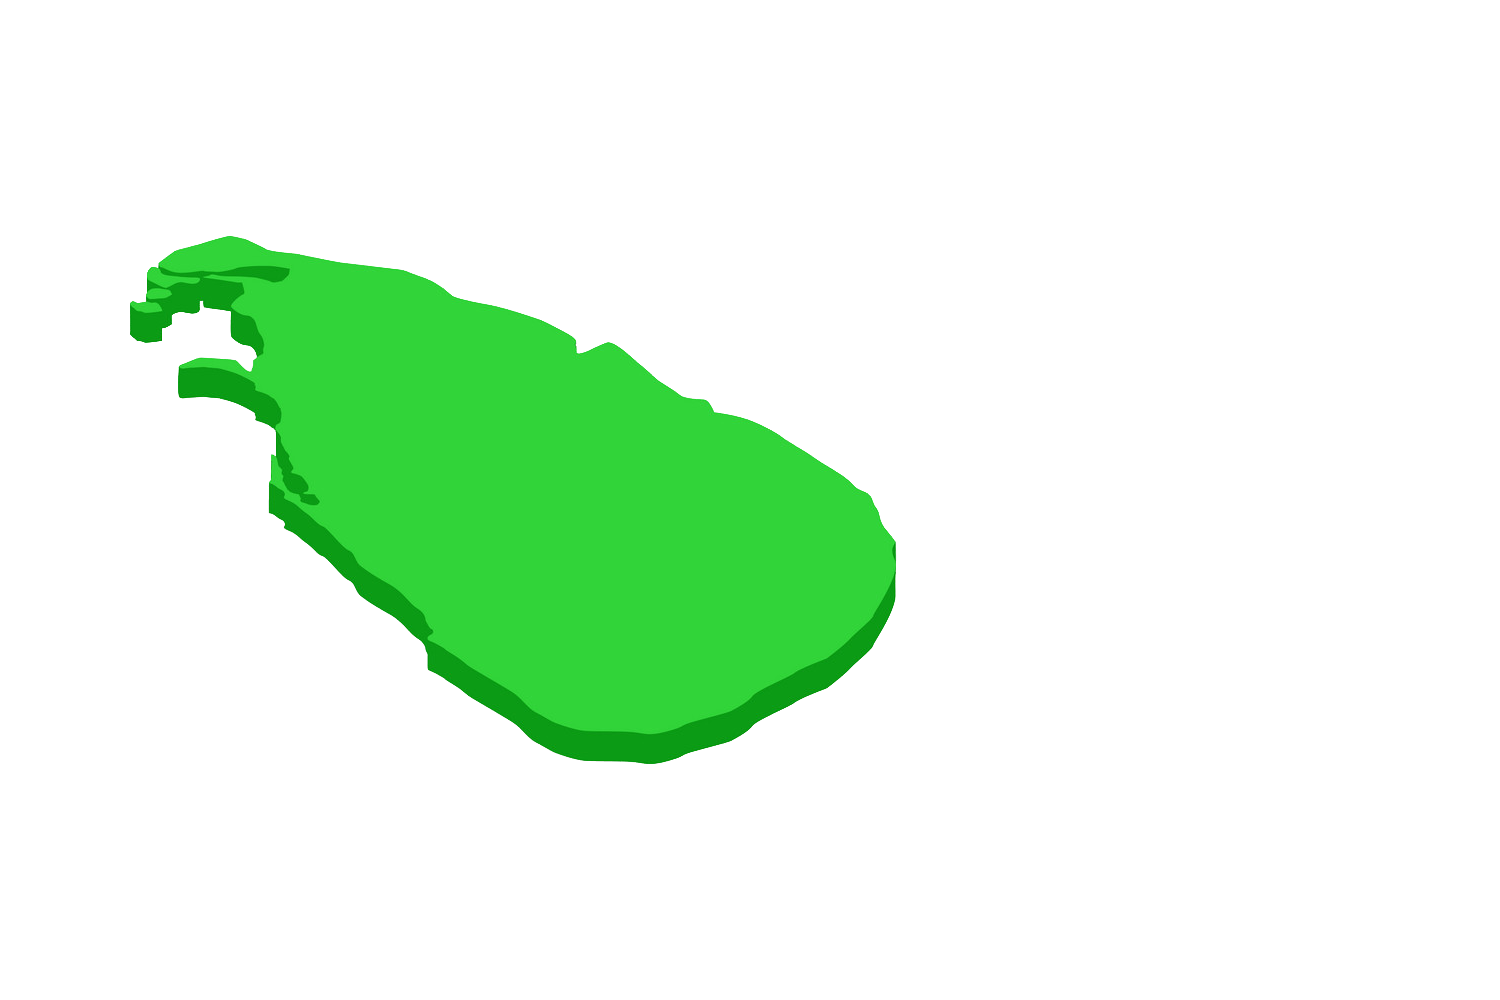
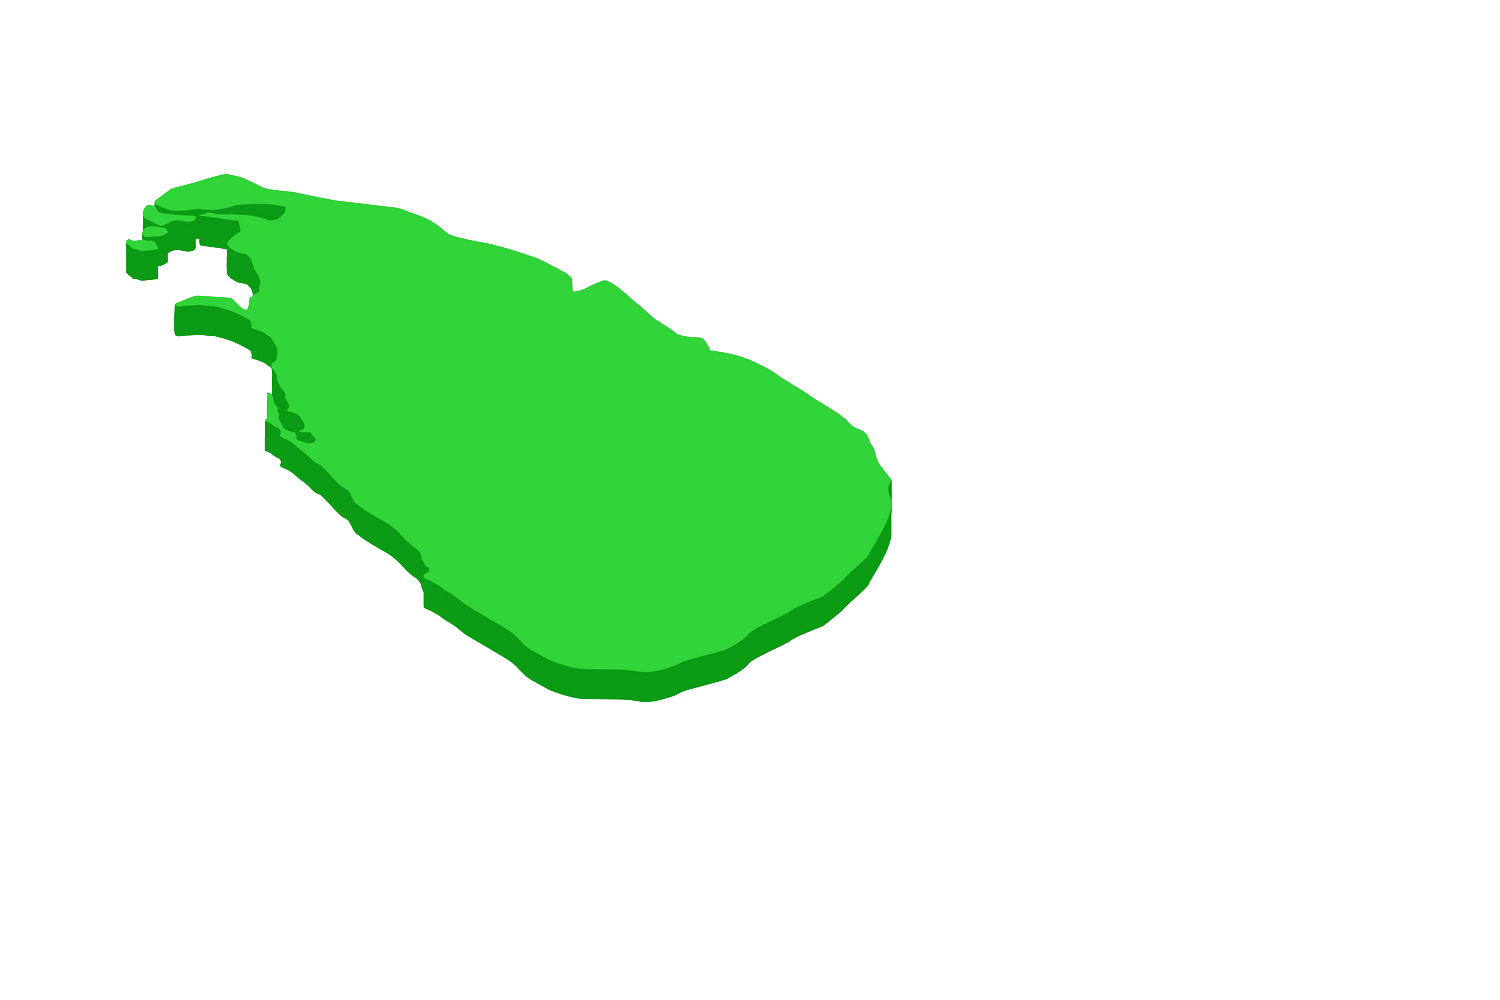
Homepage styling

Changed region(s): [[0.0613, 0.155, 0.6133, 0.775]]

diff --git a/Source/src/containers/Districts/Districts.js b/Source/src/containers/Districts/Districts.js
@@ -4,7 +4,7 @@ import classes from './Districts.css';
 class Districts extends Component {
 
   state = {
-    selectedDistrict: null,
+    // selectedDistrict: null,
     districts : [
       ['Matale', 'Dambulla', 'Galewela', 'Naula'],
       ['Kandy', 'Katugastota'],
@@ -31,14 +31,14 @@ class Districts extends Component {
   }
 
   districtSelectedHandler = (district) => {
-    this.setState({selectedDistrict: district});
+    // this.setState({selectedDistrict: district});
     this.props.history.push({pathname: '/posts/' + district});
   }
     
   render() {
     return (
       <div>
-        <h3> Districts </h3>
+        <h3 className={classes.text}> Districts </h3>
         {this.state.districts.map((district)=>{
           return <button 
             key={district[0]} 

diff --git a/Source/src/containers/Districts/Districts.css b/Source/src/containers/Districts/Districts.css
@@ -1,8 +1,12 @@
+.text {
+  color: rgb(4, 75, 31);
+}
+
 .districts{
     align-self: auto;
     background-color: rgba(232, 238, 238, 0.479);
     padding: 5px;
-    width: 55%;
+    width: 60%;
     margin: 3px;
     border: 0;
     border-bottom: 1px solid rgb(78, 82, 77);
@@ -19,7 +23,7 @@
     font-size-adjust: initial;
     border-radius: 4px;
     color: black;
-    width: 48%;
+    width: 53%;
 }
 
   /* The container <div> - needed to position the dropdown content */

diff --git a/Source/src/containers/HomePage/HomePage.css b/Source/src/containers/HomePage/HomePage.css
@@ -1,19 +1,19 @@
 .ints{
-    width: 50%;
+    width: 45%;
     float: left;
 }
 
 .districts{
-    width: 50%;
+    width: 55%;
     float: right;
 }
 
 .bg {
     background-image: url("../../assets/images/Map-min.png");
-    height : 450px;
+    height : 800px;
     width: 100%;
     background-repeat: no-repeat;
-    background-position: center; 
+    /* background-position: center;  */
     /* background-size: cover; */
 }
 

diff --git a/Source/src/components/Intro/Intro.js b/Source/src/components/Intro/Intro.js
@@ -6,10 +6,10 @@ const Intro = () => {
   return (
     <div className={classes.intro}>
       <h2>
-        Welcome to RECYC - the largest online waste managment system in Sri Lanka!
+        Welcome to RECYC - Online solid waste managment system in Sri Lanka!
       </h2>
       <p>
-        Buy and sell plastic, solid wastes in Sri Lanka!
+        Buy and sell Solid wastes in Sri Lanka!
       </p>
     </div>
   )

diff --git a/Source/src/components/Intro/Intro.css b/Source/src/components/Intro/Intro.css
@@ -1,5 +1,16 @@
 .intro{
     position: relative;
-    padding: 5%;
-    padding-top: 10%;
+    /* padding: 0; */
+    padding-left: 5%;
+    color: rgb(4, 75, 31);
+}
+
+
+@media (min-width: 500px) {
+    .intro{
+        position: relative;
+        padding: 0 0 10% 10%;
+        color: rgb(4, 75, 31);
+    }
+    
 }
